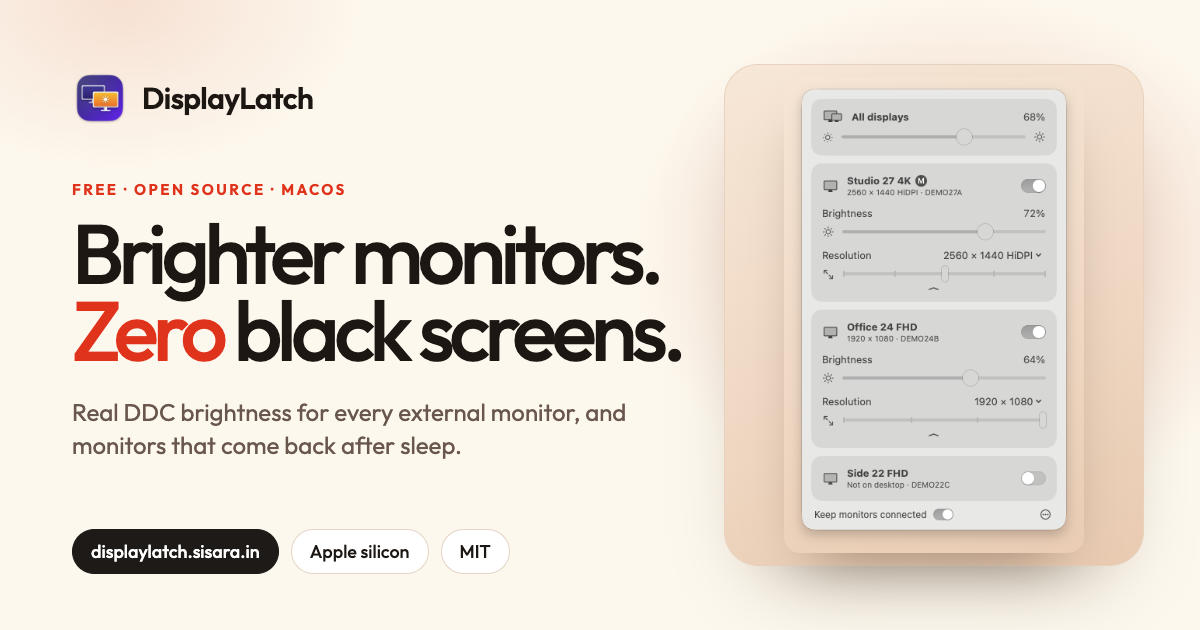
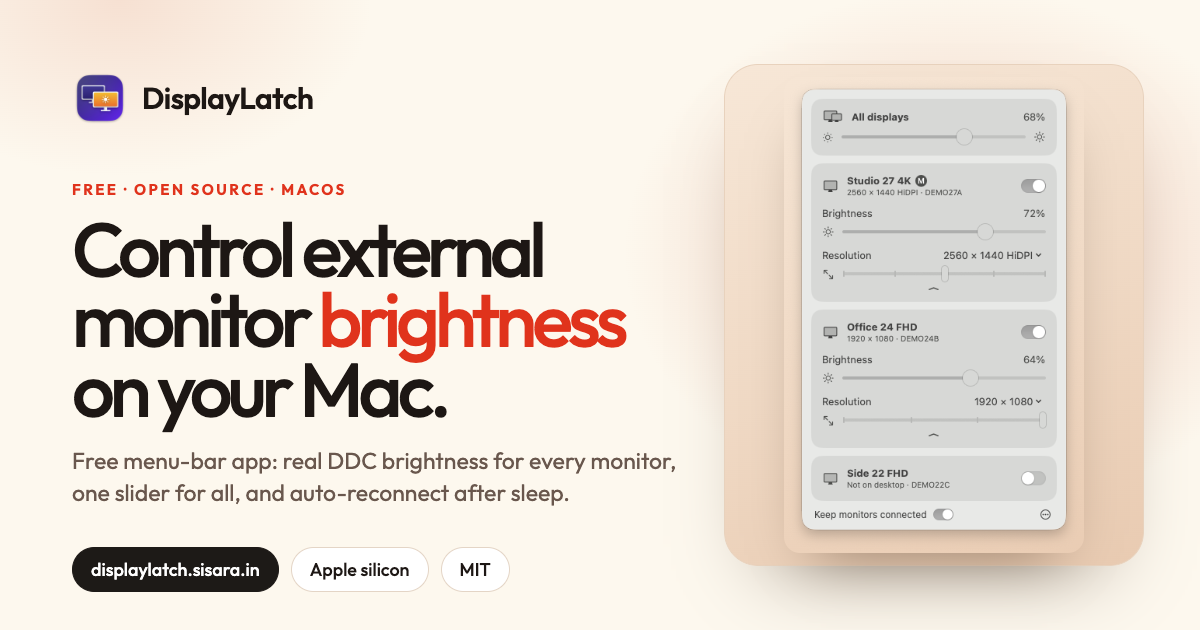
Site: practical hero headline about controlling external monitor brightness

Changed region(s): [[0.0617, 0.3317, 0.5858, 0.9651]]

diff --git a/site/app/page.tsx b/site/app/page.tsx
@@ -134,13 +134,13 @@ export default function Home() {
             <a className="pill-new" href={SITE.releases}>
               <b>NEW</b> Version {SITE.version} is out, free for everyone
             </a>
-            <h1 className="display">
-              Brighter monitors. <span className="accent">Zero</span> black screens.
+            <h1 className="display hero-title">
+              Control external monitor <span className="accent">brightness</span> on your Mac.
             </h1>
             <p className="lede">
-              DisplayLatch is a free, open-source Mac menu-bar app that controls external monitor
-              brightness with real DDC backlight control, lets one slider dim every screen at once,
-              and brings back monitors that stay black after sleep.
+              DisplayLatch is a free menu-bar app for external monitors. Change each monitor's real
+              brightness over DDC, dim every screen at once with one slider, switch resolution, and
+              get monitors back automatically when they stay black after sleep.
             </p>
             <div className="btn-row">
               <a className="btn btn-dark" href={SITE.download} rel="noopener">

diff --git a/site/app/globals.css b/site/app/globals.css
@@ -104,6 +104,10 @@ a {
 .display {
   font-size: clamp(3rem, 7.4vw, 6rem);
 }
+.hero-title {
+  font-size: clamp(2.7rem, 5.3vw, 4.7rem);
+  line-height: 0.95;
+}
 .h2 {
   font-size: clamp(2.5rem, 5.4vw, 4.6rem);
 }
